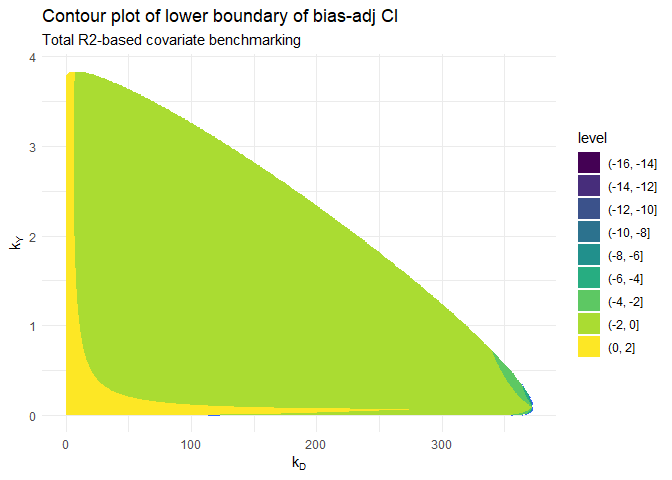
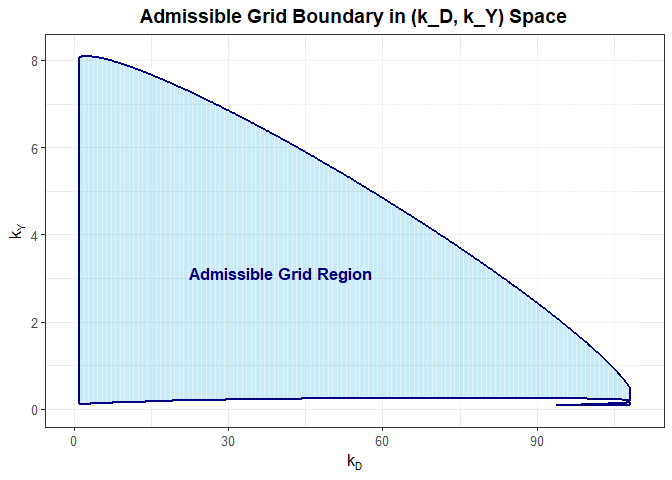
Reworked the README.

diff --git a/README.md b/README.md
@@ -4,11 +4,39 @@
 # ovbsa
 
 <!-- badges: start -->
+
 <!-- badges: end -->
 
 The goal of `ovbsa` (omitted variable bias sensitivity analysis) is to
-conduct sensitivity analysis of omitted variable bias in linear
-econometrics models. For details see Basu (2025).
+conduct sensitivity analysis of reported results in linear econometrics
+models to the presence of omitted variable bias. The key function in
+this package computes a bias-adjusted confidence interval by
+implementing the method presented in Basu (2026).
+
+Basu (2026)’s method builds on and extends Cinelli and Hazlett (2020).
+Consider a linear econometric model where you believe there is an
+unobserved confounder. Choose a regressor that is included in the model
+as a benchmark covariate. Let $k_D$ and $k_Y$ denote sensitivity
+parameters.
+
+Here $k_D$ captures the strength of association of the unobserved
+confounder with the treatment variable (i.e., regressor of interest)
+relative to the strength of association of the benchmark covariate with
+the treatment variable. Similarly, $k_Y$ captures the strength of
+association of the unobserved confounder with the outcome variable
+relative to the strength of association of the benchmark covariate with
+the outcome variable.
+
+Cinelli and Hazlett (2020) had presented a method to compute omitted
+variable bias-adjusted confidence intervals for specific values of $k_D$
+and $k_Y$. Basu (2026) asks us to consider $k_D$ and $k_Y$ as random
+variables, imposes reasonable prior distributions on these random
+variables and then computes bias-adjusted confidence intervals by
+integrating out $k_D$ and $k_Y$.
+
+In this package, I use independent truncated exponential distributions
+as prior distribution of $k_D$ and $k_Y$. For more details see Basu
+(2026).
 
 ## Installation
 
@@ -28,33 +56,27 @@ You can install the development version of ovbsa from
 # pak::pak("dbasu-umass/ovbsa")
 ```
 
-## Main functions
+## Main function
 
-The main functions in this package are:
+The main function in this package is:
 
-- `bsal`: this function conducts basic sensitivity analysis (bsal) and
-  reports the bias-adjusted estimate, the bias-adjusted standard error
-  and the bias-adjusted confidence interval in a linear regression
-  model;
+- `baci`: this function computes the bias-adjusted confidence interval
+  (baci) in a linear regression model when $k_D$ and $k_Y$ follow
+  truncated exponential distributions; the function returns a list
+  `results` containing the unadjusted and bias-adjusted confidence
+  intervals; it also returns a list `undstats` containing the estimate,
+  the unadjusted stamdard error, the max of $k_D$ and the max of $k_Y$;
+  it also returns a `ggplot2` plot object visualizing the support of the
+  joint distribution of $(k_D,k_Y)$.
 
-- `saltr2`: this function computes the probability of the conclusion of
-  the study being overturned using the total R-squared-based analysis;
-
-- `salpr2ncd`: this function computes the probability of the conclusion
-  of the study being overturned using the partial R-squared-based
-  analysis without conditioning on the treatment variable;
-
-Let us first load the relevant libraries and then work through two
-examples.
+Let us first load the relevant libraries and then work through an
+example.
 
 ``` r
 library(ovbsa)
 library(sensemakr)
 #> See details in:
 #> Carlos Cinelli and Chad Hazlett (2020). Making Sense of Sensitivity: Extending Omitted Variable Bias. Journal of the Royal Statistical Society, Series B (Statistical Methodology).
-```
-
-``` r
 library(ggplot2)
 ```
 
@@ -62,140 +84,74 @@ In the examples we will use use the data set `darfur` from the package
 `sensemakr`, which studies the effect of exposure to violence on
 attitudes towards peace.
 
-## Example 1: Bias-adjusted confidence interval
+## Bias-adjusted confidence interval
 
 This is a basic example which shows you how to find the bias-adjusted
 estimate, the bias-adjusted standard error and the bias-adjusted
 confidence interval in a linear regression model. To use this function
-the user needs to choose a benchmark covariate, values of the
-sensitivity parameters `kD` and `kY` and the significance level `alpha`
-for testing the null hypothesis that the treatment effect is zero.
+the user needs to choose a benchmark covariate, the significance level
+`alpha` for testing the null hypothesis that the treatment effect is
+zero and `N` to create a grid of size $N \times N$ over the support of
+the distribution of $(k_D,k_Y)$.
 
-Here we choose the benchmark covariate as `female`, `kD=3`, `kY=3` and
-`alpha=0.05`
-
-``` r
-## basic example code
-analysis1 <- ovbsa::bsal(
-  kd=3,ky=3,alpha=0.05,data=darfur,
-  outcome = "peacefactor",
-  treatment = "directlyharmed",
-  bnch_reg = "female",
-  other_reg = c("village","age","farmer_dar","herder_dar",
-                "pastvoted","hhsize_darfur")
-)
-```
-
-Now, let us see the results.
+Here we choose the benchmark covariate as `female`, `alpha=0.05` and
+`N=1000`. In the first step, we estimate the model with ordinary least
+squares using the `lm` function.
 
 ``` r
-(analysis1)
-#>                        Case 1       Case 2
-#> r2yd.x            0.021873093  0.021873093
-#> r2dz.x            0.008040002  0.027492860
-#> r2yz.dx           0.781414454  0.380969988
-#> estimate          0.097315819  0.097315819
-#> adjusted_estimate 0.045525612  0.029779889
-#> adjusted_se       0.010924114  0.018566585
-#> adjusted_lower_CI 0.024081595 -0.006666285
-#> adjusted_upper_CI 0.066969628  0.066226063
+## fit model
+fit <- lm(peacefactor ~ directlyharmed + age + farmer_dar + herder_dar +
+             pastvoted + hhsize_darfur + female + village,
+             data = sensemakr::darfur)
 ```
 
-Here Case 1 refers to the total R-squared-based approach; Case 2 refers
-to the partial R-squared-based approach without conditioning on the
-treatment variable.
-
-## Example 2: Probability of study’s conclusion being overturned
-
-Continuing with the previous example, we will now compute the
-probability that taking account of omitted variable bias will overturn
-the conclusion of the study. We will need to choose the significance
-level `alpha` for testing the null hypothesis that the treatment effect
-is zero, the mode (and median) `k_kd` of the parameter kD, and the mode
-(and median) `k_ky` of the parameter kY.
-
-Here we choose `alpha=0.05, k_kd=1, k_ky=1`.
-
-First, we will look at total R-squared based analysis:
+In the second step, we call `baci` to conduct sensitivity analysis.
 
 ``` r
-# total r2-based analysis
-res1 <- ovbsa::saltr2(
-  alpha=0.05,data = darfur, outcome = "peacefactor",
-  treatment = "directlyharmed", bnch_reg = "female",
-  other_reg = c("village","age","farmer_dar","herder_dar",
-                "pastvoted","hhsize_darfur"),
-  N = 500, k_kd=1, k_ky=1
-)
-# probability
-(res1$frac_prob_wt)
-#> [1] 0.2582741
+# conduct sensitivity analysis
+res1 <- ovbsa::baci(fit = fit, treatment = "directlyharmed",
+                benchmark = "female", N = 1000, alpha = 5/100)
+#> Extracting regression quantities : 0.8 sec elapsed
+#> Computing values on the grid : 0.36 sec elapsed
+#> Prior distribution: truncated exponential : 1.05 sec elapsed
+#> Results available now!
 ```
 
-Second: we will see the partial R-squared based analysis without
-conditioning on the treatment variable:
+Let us see the results, starting with the underlying statistics:
 
 ``` r
-res2 <- ovbsa::salpr2ncd(
-  alpha=0.05,data = darfur, outcome = "peacefactor",
-  treatment = "directlyharmed", bnch_reg = "female",
-  other_reg = c("village","age","farmer_dar","herder_dar",
-                "pastvoted","hhsize_darfur"),
-  N = 500, k_kd=1, k_ky=1
-)
-# probability
-(res2$frac_prob_wt)
-#> [1] 0.3118923
+res1$undstats
+#>                 Values
+#> estimate    0.09731582
+#> std error   0.02325654
+#> max(kD)   109.11924031
+#> max(kY)     8.17145822
 ```
 
-## Example 3: Contour plot of boundary of bias-adjusted confidence interval
-
-The above functions used to compute the probability of a study’s
-conclusion being overturned implicitly used a contour plot of the
-boundary of the bias-adjusted confidence interval. The data is available
-as an output to be used by researchers to create that plot, if needed.
-
-I will use the output of the total R-squared-based analysis to create
-the contour plot. The data frame to construct the contour plot is
-available as a data frame in `res1$dataplot`. For the contour plot, we
-will need three variables from this data frame: `X1` as the x-axis, `X2`
-as the y-axis and `Z3` as the z-axis (value of the lower boundary of the
-bias-adjusted confidence interval).
+Let us now see the unadjusted and bias-adjusted confidence intervals.
 
 ``` r
-# the contour plot  
-ggplot(data = res1$dataplot, aes(X1, X2, z = Z3)) +
-      geom_contour() +
-      geom_contour_filled() +
-      labs(
-        title = "Contour plot of lower boundary of bias-adj CI",
-        subtitle = "Total R2-based covariate benchmarking"
-      ) +
-      xlab(expression(k[D])) +
-      ylab(expression(k[Y])) +
-      theme_minimal()
-#> Warning: Removed 96443 rows containing non-finite outside the scale range
-#> (`stat_contour()`).
-#> Warning: Removed 96443 rows containing non-finite outside the scale range
-#> (`stat_contour_filled()`).
+res1$results
+#>                       Lower     Upper
+#> Unadjusted CI    0.05166327 0.1429684
+#> Bias-adjusted CI 0.02596471 0.1234509
 ```
 
-<img src="man/figures/README-unnamed-chunk-7-1.png" width="75%" />
+Finally, let us see a picture of the support of the joint prior
+distribution of $k_D$ and $k_Y$.
 
-For easy reference, the following information about the relevant
-variables in the data frame should be noted while constructing contour
-plots like the one above:
+``` r
+print(res1$support_kdky_plot)
+```
 
-- when the unadjusted estimate is positive, use `X1` as the x-axis, `X2`
-  as the y-axis and `Z3` as the z-axis (value of the lower boundary of
-  the bias-adjusted confidence interval);
-
-- when the unadjusted estimate is negative, use `X1` as the x-axis, `X2`
-  as the y-axis and `Z4` as the z-axis (value of the lower boundary of
-  the bias-adjusted confidence interval).
+<img src="man/figures/README-unnamed-chunk-7-1.png" alt="" width="100%" />
 
 ## References
 
-- Basu, D. (2025). How likely is it that omitted variable bias will
+- Basu, D. (2026). How likely is it that omitted variable bias will
   overturn your results? SSRN Working Paper. Available here:
   <doi:10.2139/ssrn.4704246>
+
+- Cinelli, C. and Hazlett, C. (2020). Making Sense of Sensitivity:
+  Extending Omitted Variable Bias. *Journal of the Royal Statistical
+  Society Series B: Statistical Methodology,* 82(1):39–67
